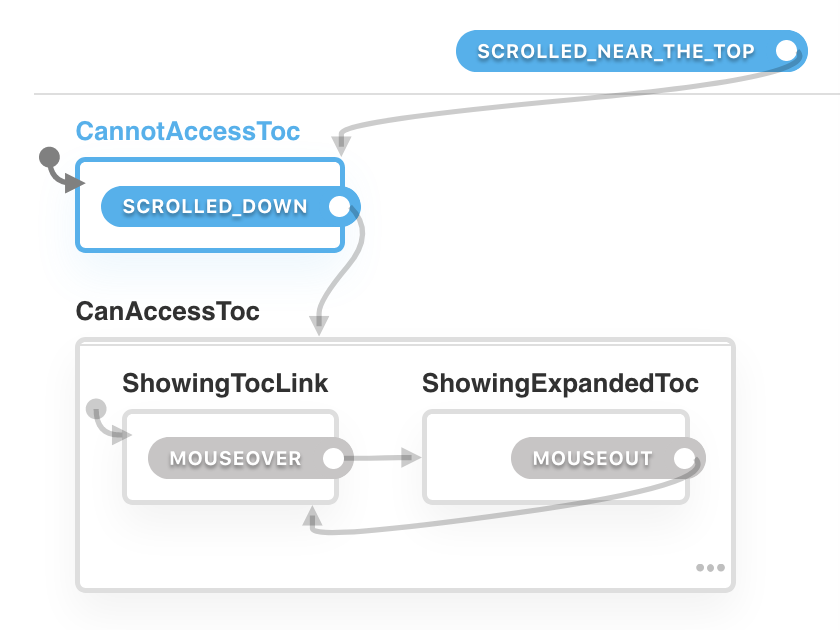
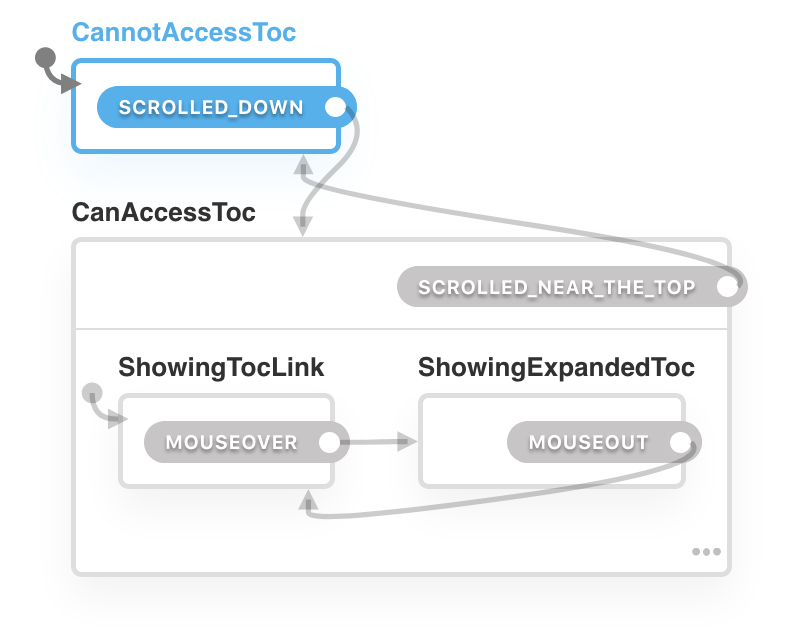
readme and modified table_of_contents_scroll statechart

Changed region(s): [[0.0302, 0.0302, 1.0, 0.9651]]

diff --git a/table_of_contents_scroll/README.md b/table_of_contents_scroll/README.md
@@ -4,15 +4,22 @@
 
 # Behaviour
 
--   When the page is scrolled to the top, we see no table of contents (TOC).
+1. When the page is scrolled to the top, we see no table of contents (TOC)
+2. When the page is scrolled, we see a link to the TOC.
+3. When we hover that link, it expands and actually shows the TOC.
+
+
+# States
+
+## CannotAccessToc
 
 ![CannotAccessToc](01_top_no_toc.png)
 
--   When the page is scrolled, we see a link to the TOC.
+## ShowingTOCLink
 
 ![ShowingTOCLink](02_scrolled_toc_link.png)
 
--   When the hover that link, it expands and actually shows the TOC.
+## ShowingExpandedTOC
 
 ![ShowingExpandedTOC](03_hovered_expaded_toc.png)
 
@@ -54,9 +61,6 @@ const machine = Machine({
 ```js
 const machine = Machine({
   initial: 'CannotAccessToc',
-  on: {
-    SCROLLED_NEAR_THE_TOP: 'CannotAccessToc'
-  },
   states: {
     CannotAccessToc: {
       on: {
@@ -65,6 +69,9 @@ const machine = Machine({
     },
     CanAccessToc: {
       initial: 'ShowingTocLink',
+      on: {
+        SCROLLED_NEAR_THE_TOP: 'CannotAccessToc'
+      },
       states: {
         ShowingTocLink: {
           on: {
@@ -77,7 +84,7 @@ const machine = Machine({
           }
         }
       }
-    },
+    }
   }
 });
 ```

diff --git a/README.md b/README.md
@@ -1,3 +1,7 @@
-# State machine examples
+# Statecharts and state machine examples
 
-Collection of state machine examples
+Collection of examples of state machines and statecharts.
+
+You replicate these machines pasting the provided code [in the xstate visualiser](https://statecharts.github.io/xstate-viz/).
+
+Feel free to provide alternative code via PR if you find issues or to propose alternative modelling approaches.
